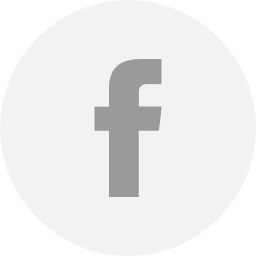
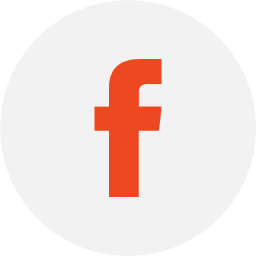
Pie de pagina 2

Changed region(s): [[0.3438, 0.2188, 0.6562, 0.7812]]

diff --git a/index.html b/index.html
@@ -143,9 +143,9 @@
       <div class="container2">
         <h4 class="tit_foot">Redes sociales</h4>
         <div class="redes_sociales">
-          <a href="https://www.facebook.com/ColombiaSupport"><img src="img/facebook.png" alt="" class="img_rs"></a>
-          <a href="https://www.instagram.com/supportcolombiasas/"><img src="img/instagram.png" alt="" class="img_rs"></a>
-          <a href="https://www.linkedin.com/company/support-colombia/"><img src="img/linkedin.png" alt="" class="img_rs"></a>
+          <a href="https://www.facebook.com/ColombiaSupport"><img alt="Cambiar imagen" height="198" onmouseout="this.src='img/facebook.png';" onmouseover="this.src='img/facebook2.png';" src="img/facebook.png" class="img_rs"/></a>
+          <a href="https://www.instagram.com/supportcolombiasas/"><img alt="Cambiar imagen" height="198" onmouseout="this.src='img/instagram.png';" onmouseover="this.src='img/instagram2.png';" src="img/instagram.png" class="img_rs"/></a>
+          <a href="https://www.linkedin.com/company/support-colombia/"><img alt="Cambiar imagen" height="198" onmouseout="this.src='img/linkedin.png';" onmouseover="this.src='img/linkedin2.png';" src="img/LinkedIn.png" class="img_rs"/></a>
         </div>
         <br>
         <h4 class="tit_foot">Lineas de atención</h4>
